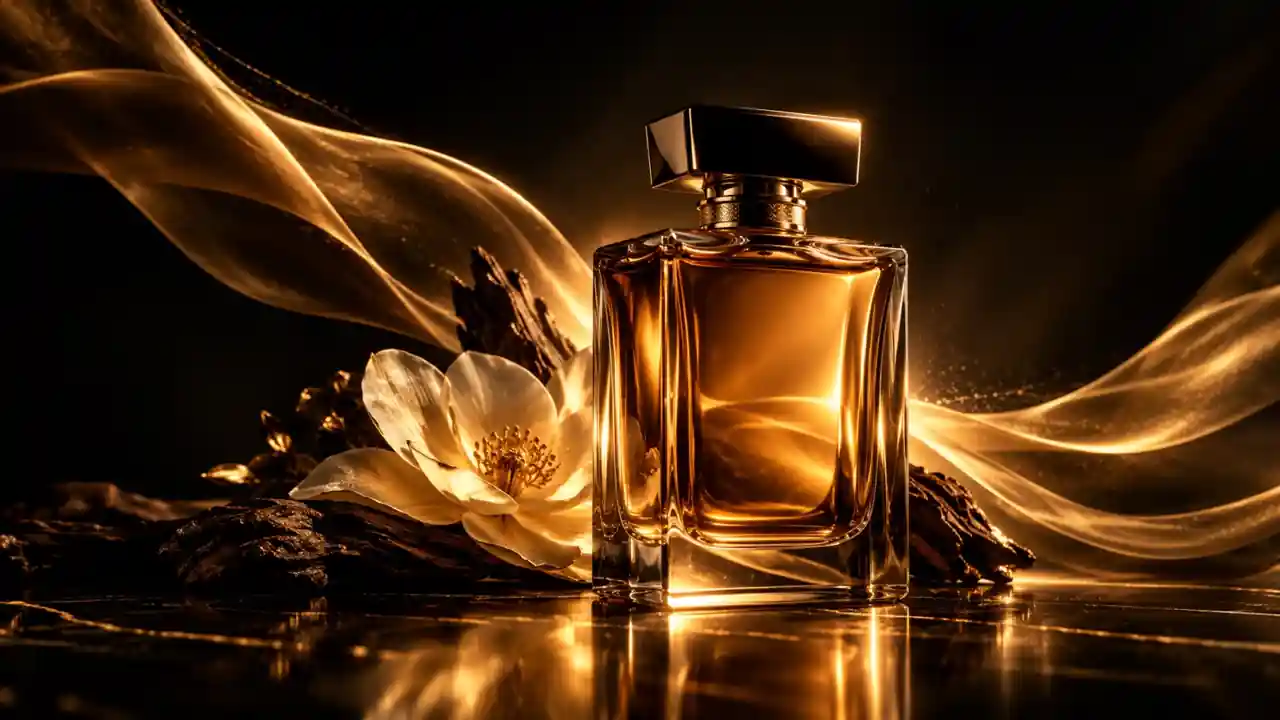
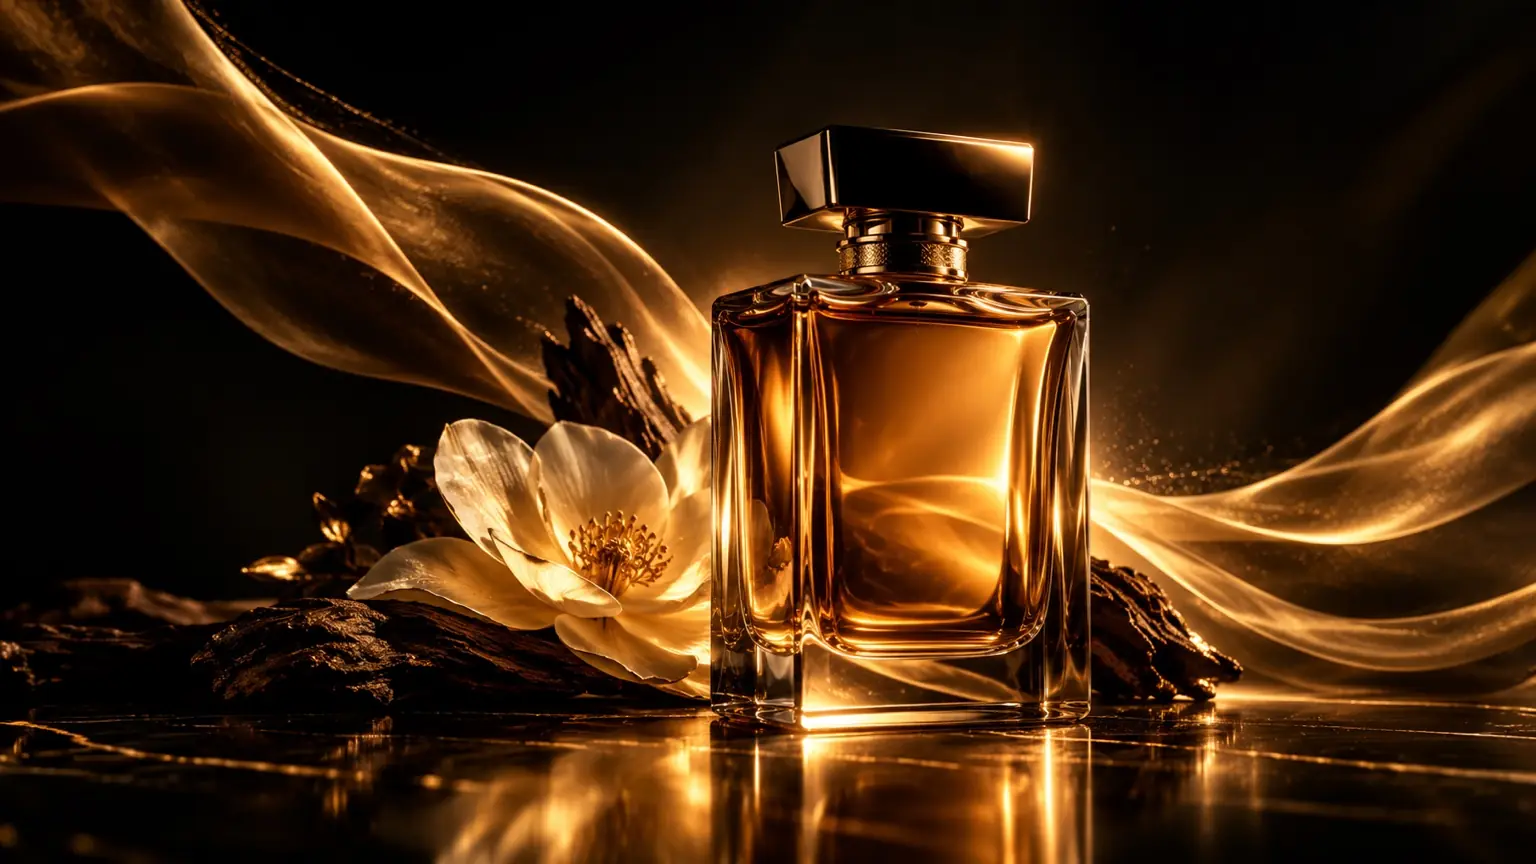
Use HD 1536x864 hero carousel images

diff --git a/hero-carousel-v2.css b/hero-carousel-v2.css
@@ -32,13 +32,13 @@
   transition:opacity .65s ease,visibility .65s ease!important;
 }
 #inicio .hero-slide:nth-of-type(1){
-  background-image:url("assets/hero-signature.webp?v=20261001-realhero2")!important;
+  background-image:url("assets/hero-signature.webp?v=20261001-hd75")!important;
 }
 #inicio .hero-slide:nth-of-type(2){
-  background-image:url("assets/hero-feminine.webp?v=20261001-realhero2")!important;
+  background-image:url("assets/hero-feminine.webp?v=20261001-hd75")!important;
 }
 #inicio .hero-slide:nth-of-type(3){
-  background-image:url("assets/hero-masculine.webp?v=20261001-realhero2")!important;
+  background-image:url("assets/hero-masculine.webp?v=20261001-hd75")!important;
 }
 #inicio .hero-slide.is-active{
   opacity:1!important;

diff --git a/index.html b/index.html
@@ -15,7 +15,7 @@
   <link rel="preconnect" href="https://fonts.gstatic.com" crossorigin>
   <link href="https://fonts.googleapis.com/css2?family=Cinzel:wght@500;600;700&family=Cormorant+Garamond:ital,wght@0,400;0,500;0,600;1,500;1,600&family=Montserrat:wght@300;400;500;600&display=swap" rel="stylesheet">
   <link rel="stylesheet" href="styles.css?v=20261001-herofinal1">
-  <link rel="stylesheet" href="hero-carousel-v2.css?v=20261001-realhero2">
+  <link rel="stylesheet" href="hero-carousel-v2.css?v=20261001-hd75">
 </head>
 <body>
   <div class="site-unavailable" id="siteUnavailable" hidden>
